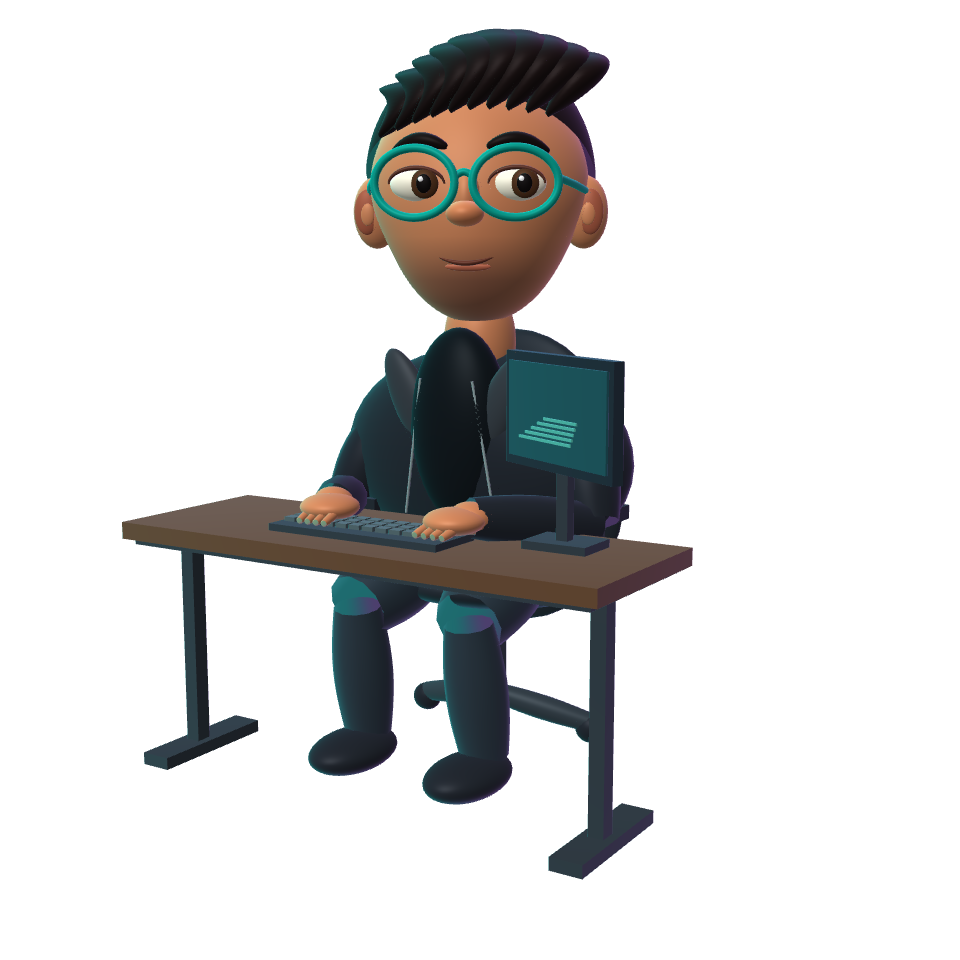
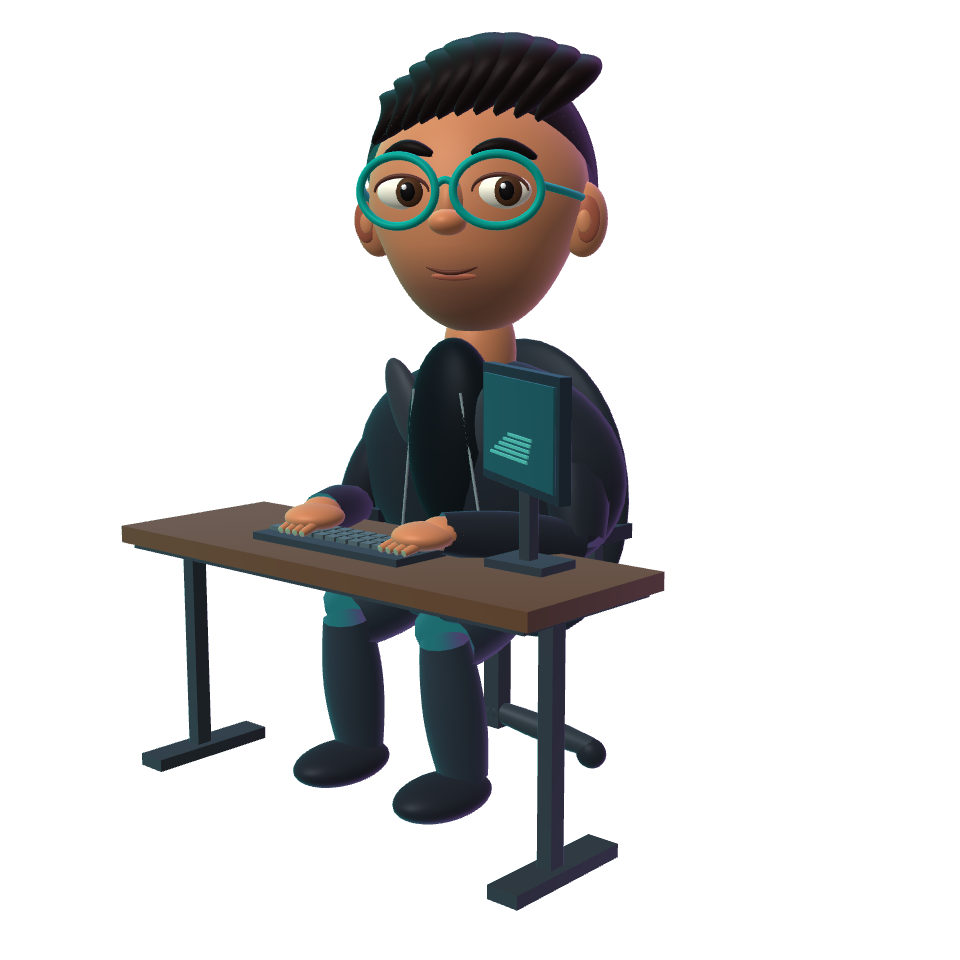
Follow the recorded scroll sequence from close-up to desk, campaign process and horizontal work reel

Changed region(s): [[0.125, 0.0312, 0.7188, 0.9688], [0.4375, 0.0312, 0.5, 0.0625], [0.4062, 0.0625, 0.4375, 0.0938]]

diff --git a/studio/index.html b/studio/index.html
@@ -1,17 +1,17 @@
 <!doctype html>
-<html lang="en"><head><meta charset="utf-8"><meta name="viewport" content="width=device-width, initial-scale=1"><meta name="theme-color" content="#0b1323"><title>Mohammed Aamer Sohel - AI Films & Social Strategy</title><meta name="description" content="AI campaign films, virtual model editorials and social media strategy for brands. Explore concepts and work with Mohammed Aamer Sohel."><meta property="og:title" content="Aamer Sohel - AI Films & Social Strategy"><meta property="og:description" content="Explore AI fashion editorials, product films and social campaign concepts."><link rel="icon" href="assets/as-icon.svg"><link rel="stylesheet" href="style.css?v=7"></head>
-<body><header><div class="shell nav"><a class="brand" href="#top" aria-label="Aamer Sohel home"><img src="assets/aamer-sohel.svg" alt="Aamer Sohel"></a><nav aria-label="Main navigation"><a href="#work">Work</a><a href="#services">Services</a><a href="#about">About</a></nav><a class="navcta" href="#contact">Get in touch</a></div></header>
-<main id="top"><div class="opening"><span class="scene-anchor" id="about"></span><span class="scene-anchor" id="work"></span><span class="scene-anchor" id="cobalt"></span><span class="scene-anchor" id="citrus"></span><section class="stage" aria-labelledby="stage-title">
+<html lang="en"><head><meta charset="utf-8"><meta name="viewport" content="width=device-width, initial-scale=1"><meta name="theme-color" content="#0b1323"><title>Mohammed Aamer Sohel - AI Films & Social Strategy</title><meta name="description" content="AI campaign films, virtual model editorials and social media strategy for brands. Explore concepts and work with Mohammed Aamer Sohel."><meta property="og:title" content="Aamer Sohel - AI Films & Social Strategy"><meta property="og:description" content="Explore AI fashion editorials, product films and social campaign concepts."><link rel="icon" href="assets/as-icon.svg"><link rel="stylesheet" href="style.css?v=8"></head>
+<body><div class="intro-slate" aria-hidden="true"><img src="assets/aamer-sohel.svg" alt=""></div><header><div class="shell nav"><a class="brand" href="#top" aria-label="Aamer Sohel home"><img src="assets/aamer-sohel.svg" alt="Aamer Sohel"></a><nav aria-label="Main navigation"><a href="#work">Work</a><a href="#services">Services</a><a href="#about">About</a></nav><a class="navcta" href="#contact">Get in touch</a></div></header>
+<main id="top"><div class="opening"><span class="scene-anchor" id="about"></span><span class="scene-anchor" id="services"></span><section class="stage" aria-labelledby="stage-title">
   <div class="stage-light" aria-hidden="true"></div>
   <div class="character"><img src="assets/pose-center.png" alt="Aamer at his editing desk wearing teal glasses" fetchpriority="high"><canvas aria-hidden="true"></canvas></div>
   <div class="stage-copy shell">
     <div class="stage-name"><span class="overline">Hello, I'm</span><h1 id="stage-title">Aamer<br>Sohel</h1></div>
     <div class="stage-role"><span class="overline">What I do</span><div class="role-window" aria-hidden="true"><span id="role-text">AI filmmaker</span></div><span class="sr-only">AI filmmaker, virtual model director and social strategist.</span></div>
   </div>
-  <section class="scene-about scene-panel" aria-labelledby="about-title" inert><div class="kicker">ABOUT ME</div><h2 id="about-title">Mohammed<br><em>Aamer Sohel</em></h2><p>I work where filmmaking meets social strategy. For a product launch, I start with what a viewer should notice in the first frame. That choice shapes the model, the light, the edit and the cutdowns a brand can test across its channels.</p><a class="inline" href="https://www.linkedin.com/in/mohammedaamersohel/" target="_blank" rel="noopener">View my LinkedIn profile</a></section><section class="scene-work scene-panel" aria-labelledby="work-title" inert><div class="kicker">CAMPAIGN CONCEPTS</div><h2 id="work-title">Selected <em>work</em></h2><div class="screening"><article><button class="thumb" data-film="ember" aria-label="Play Ember fragrance film"><img src="assets/ember.jpg" alt="Amber fragrance bottle lit against dark stone"><span class="pill">PLAY FILM</span></button><div class="meta">FRAGRANCE / PRODUCT FILM</div><h3>Ember</h3><p>A slow reveal built around amber light, glass edges and the heft of the bottle.</p></article><article><button class="thumb" data-film="cobalt" aria-label="Play Cobalt fashion film"><img src="assets/cobalt.jpg" alt="Virtual fashion model in sculptural chrome eyewear"><span class="pill">PLAY FILM</span></button><div class="meta">EYEWEAR / VIRTUAL MODEL</div><h3>Cobalt</h3><p>A chrome frame, an electric blue set and one virtual model give the collection a distinct face.</p></article><article><button class="thumb" data-film="citrus" aria-label="View Citrus campaign still"><img src="assets/citrus.jpg" alt="Tangerine beverage can with fresh blood orange slices"><span class="pill">VIEW STILL</span></button><div class="meta">BEVERAGE / CAMPAIGN STILL</div><h3>Citrus</h3><p>Cut fruit and a saturated orange palette put flavour at the centre of a launch post.</p></article></div><nav class="film-links" aria-label="Choose a campaign"><a href="#work">Ember</a><a href="#cobalt">Cobalt</a><a href="#citrus">Citrus</a></nav></section><div class="stage-foot shell"><a class="stage-work" href="#about">About me <span aria-hidden="true">↓</span></a></div>
+  <section class="scene-about scene-panel" aria-labelledby="about-title" inert><div class="kicker">ABOUT ME</div><h2 id="about-title">Mohammed<br><em>Aamer Sohel</em></h2><p>I work where filmmaking meets social strategy. For a product launch, I start with what a viewer should notice in the first frame. That choice shapes the model, the light, the edit and the cutdowns a brand can test across its channels.</p><a class="inline" href="https://www.linkedin.com/in/mohammedaamersohel/" target="_blank" rel="noopener">View my LinkedIn profile</a></section><section class="scene-services scene-panel" inert aria-labelledby="service-title"><div class="kicker">SERVICES</div><h2 id="service-title">What I <em>do</em></h2><div class="offering-list"><div><h3>AI video production</h3><p>Concept, storyboard and a finished short film, with vertical edits and opening hooks for social.</p></div><div><h3>Virtual model campaigns</h3><p>AI model direction, styling and campaign imagery for fashion, beauty and lifestyle brands.</p></div><div><h3>Social growth strategy</h3><p>Audience positioning, content pillars and a posting plan, with creative tests guided by watch time, saves and enquiries.</p></div></div></section><div class="stage-foot shell"><a class="stage-work" href="#about">About me <span aria-hidden="true">↓</span></a></div>
 </section></div>
-<section class="services" id="services"><div class="shell services-grid"><div><div class="kicker"><i></i> SERVICES</div><h2>Creative <em>services</em></h2></div><div class="rows"><div><h3>AI video production</h3><p>Concept, storyboard and a finished short film, with vertical edits and opening hooks for social.</p></div><div><h3>Virtual model campaigns</h3><p>AI model direction, styling and campaign imagery for fashion, beauty and lifestyle brands.</p></div><div><h3>Social growth strategy</h3><p>Audience positioning, content pillars and a posting plan, with creative tests guided by watch time, saves and enquiries.</p></div></div></div></section>
+<section class="process shell" id="process"><h2>How I build a <em>campaign</em></h2><ol><li><strong>Find the hook</strong><p>Define the audience and choose what the viewer should notice in the opening frame.</p></li><li><strong>Direct the shoot</strong><p>Shape the storyboard, lighting and virtual model around the product.</p></li><li><strong>Cut for social</strong><p>Edit the film into platform-ready cuts and test which opening earns attention.</p></li></ol></section><section class="work-reel" id="work"><div class="pinned-work"><div class="shell"><div class="kicker">CAMPAIGN CONCEPTS</div><h2>My <em>work</em></h2></div><div class="track-window"><div class="project-track"><article><button class="thumb" data-film="ember" aria-label="Play Ember fragrance film"><img src="assets/ember.jpg" alt="Amber fragrance bottle lit against dark stone"><span class="pill">PLAY FILM</span></button><div class="meta">FRAGRANCE / PRODUCT FILM</div><h3>Ember</h3><p>A slow reveal built around amber light, glass edges and the heft of the bottle.</p></article><article><button class="thumb" data-film="cobalt" aria-label="Play Cobalt fashion film"><img src="assets/cobalt.jpg" alt="Virtual fashion model in sculptural chrome eyewear"><span class="pill">PLAY FILM</span></button><div class="meta">EYEWEAR / VIRTUAL MODEL</div><h3>Cobalt</h3><p>A chrome frame, an electric blue set and one virtual model give the collection a distinct face.</p></article><article><button class="thumb" data-film="citrus" aria-label="View Citrus campaign still"><img src="assets/citrus.jpg" alt="Tangerine beverage can with fresh blood orange slices"><span class="pill">VIEW STILL</span></button><div class="meta">BEVERAGE / CAMPAIGN STILL</div><h3>Citrus</h3><p>Cut fruit and a saturated orange palette put flavour at the centre of a launch post.</p></article></div></div><nav class="project-nav shell" aria-label="Choose a campaign"><button type="button" data-project="0">Ember</button><button type="button" data-project="1">Cobalt</button><button type="button" data-project="2">Citrus</button></nav></div></section><section class="formats" aria-labelledby="format-title"><h2 id="format-title">Campaign <em>formats</em></h2><div class="orbs"><span>Film</span><span>Reels</span><span>Stills</span><span>Editorial</span><span>Social</span><span>AI models</span></div></section>
 
 <section class="contact" id="contact"><div class="shell"><div class="kicker"><i></i> PROJECT ENQUIRIES</div><h2>What are you<br><em>launching?</em></h2><p>Send me your product, launch date and the audience you want to reach.</p><div class="contacts"><a class="darkbutton" href="https://wa.me/919492718006?text=Hi%20Aamer%2C%20I%27d%20like%20to%20discuss%20a%20brand%20project." target="_blank" rel="noopener">Start a project on WhatsApp</a><a class="call" href="mailto:itsaamersohel@gmail.com">itsaamersohel@gmail.com</a><a class="call" href="tel:+919492718006">+91 94927 18006</a></div></div></section>
 </main><footer class="shell"><span>Mohammed Aamer Sohel</span><a href="https://www.linkedin.com/in/mohammedaamersohel/" target="_blank" rel="noopener">LinkedIn</a></footer>
-<dialog id="viewer" aria-labelledby="dialog-title"><div class="dialogbar"><span id="dialog-title"></span><button id="close" aria-label="Close preview">&times;</button></div><div id="media"></div></dialog><script src="character.js?v=7"></script><script src="app.js?v=7"></script></body></html>
+<dialog id="viewer" aria-labelledby="dialog-title"><div class="dialogbar"><span id="dialog-title"></span><button id="close" aria-label="Close preview">&times;</button></div><div id="media"></div></dialog><script src="character.js?v=8"></script><script src="app.js?v=8"></script></body></html>

diff --git a/studio/app.js b/studio/app.js
@@ -51,32 +51,55 @@ document.addEventListener('visibilitychange', updateMotion);
 new IntersectionObserver(([entry]) => { visible = entry.isIntersecting; updateMotion(); }).observe(stage);
 updateMotion();
 const opening=document.querySelector('.opening');
-const intro=stage.querySelector('.stage-copy'), about=stage.querySelector('.scene-about'), work=stage.querySelector('.scene-work');
-const cards=Array.from(work.querySelectorAll('article')), choices=Array.from(work.querySelectorAll('.film-links a'));
+const intro=stage.querySelector('.stage-copy'), about=stage.querySelector('.scene-about'), services=stage.querySelector('.scene-services');
 const cue=stage.querySelector('.stage-work');
 const clamp01=x=>Math.max(0,Math.min(1,x));
 const ramp=(p,a,b)=>{const t=clamp01((p-a)/(b-a));return t*t*(3-2*t);};
-function frameOpening(){
-  const distance=opening.offsetHeight-stage.offsetHeight;
-  const p=distance>0?clamp01(-opening.getBoundingClientRect().top/distance):0;
-  const turn=ramp(p,.035,.205);
-  const aboutFade=turn*(1-ramp(p,.345,.445));
-  const workFade=ramp(p,.37,.48);
-  stage.dataset.progress=String(turn);
+const reel=document.querySelector('.work-reel'), pinned=reel.querySelector('.pinned-work'), track=reel.querySelector('.project-track');
+const controls=Array.from(reel.querySelectorAll('[data-project]'));
+function scrollDistance(section,child){return Math.max(1,section.offsetHeight-child.offsetHeight);}
+function updatePage(){
+  const p=clamp01(-opening.getBoundingClientRect().top/scrollDistance(opening,stage));
+  const turn=ramp(p,.04,.29),wide=ramp(p,.46,.70);
+  const aboutFade=turn*(1-ramp(p,.46,.60));
+  stage.dataset.progress=String(turn);stage.dataset.wide=String(wide);
   stage.dispatchEvent(new Event('scenechange'));
-  stage.style.setProperty('--turn',String(turn));
-  stage.style.setProperty('--intro-opacity',String(1-ramp(p,.035,.15)));
-  stage.style.setProperty('--about-opacity',String(aboutFade));
-  stage.style.setProperty('--work-opacity',String(workFade));
-  intro.inert=p>.13;about.inert=aboutFade<.5;work.inert=workFade<.5;
-  const index=p<.64?0:p<.82?1:2;
-  cards.forEach((card,i)=>{card.hidden=i!==index;});
-  choices.forEach((link,i)=>{if(i===index)link.setAttribute('aria-current','true');else link.removeAttribute('aria-current');});
-  cue.href=p<.15?'#about':p<.40?'#work':p<.64?'#cobalt':p<.82?'#citrus':'#services';
-  cue.textContent=p<.15?'Scroll to About me':p<.40?'Explore my work':p<.82?'Next campaign':'Creative services';
+  stage.style.setProperty('--turn',String(turn));stage.style.setProperty('--wide',String(wide));
+  stage.style.setProperty('--intro-opacity',String(1-ramp(p,.04,.19)));
+  stage.style.setProperty('--about-opacity',String(aboutFade));stage.style.setProperty('--services-opacity',String(wide));
+  intro.inert=p>.18;about.inert=aboutFade<.5;services.inert=wide<.5;
+  cue.href=p<.19?'#about':p<.62?'#services':'#process';
+  cue.textContent=p<.19?'Scroll to About me':p<.62?'What I do':'My process';
+  const w=clamp01(-reel.getBoundingClientRect().top/scrollDistance(reel,pinned));
+  const cards=track.children;
+  const travel=cards[cards.length-1].offsetLeft-cards[0].offsetLeft;
+  track.style.transform='translate3d('+(-travel*w)+'px,0,0)';
+  controls.forEach((el,i)=>el.setAttribute('aria-pressed',String(i===Math.round(w*(cards.length-1)))));
 }
+controls.forEach((el,i)=>el.addEventListener('click',()=>{
+  const top=window.scrollY+reel.getBoundingClientRect().top+scrollDistance(reel,pinned)*i/(controls.length-1);
+  window.scrollTo({top,behavior:matchMedia('(prefers-reduced-motion:reduce)').matches?'instant':'smooth'});
+}));
 let pending=false;
-function scheduleOpening(){if(pending)return;pending=true;requestAnimationFrame(()=>{pending=false;frameOpening();});}
-window.addEventListener('scroll',scheduleOpening,{passive:true});
-window.addEventListener('resize',scheduleOpening);
-frameOpening();
+function schedulePage(){if(pending)return;pending=true;requestAnimationFrame(()=>{pending=false;updatePage();});}
+window.addEventListener('scroll',schedulePage,{passive:true});window.addEventListener('resize',schedulePage);
+updatePage();const field=document.querySelector('.orbs');
+const balls=Array.from(field.children,(el,i)=>({el,x:.09+(i%3)*.36,y:.1+Math.floor(i/3)*.53,vx:Math.cos(i+1)*32,vy:Math.sin(i+2)*24}));
+let ballFrame=0,oldTime=0;
+function drawBalls(time){
+  const w=field.clientWidth,h=field.clientHeight,d=balls[0].el.offsetWidth;
+  const dt=Math.min(.04,(time-oldTime)/1000);oldTime=time;
+  for(const b of balls){
+    b.x+=b.vx*dt/w;b.y+=b.vy*dt/h;
+    if(b.x<=0||b.x>1-d/w){b.vx*=-1;b.x=Math.max(0,Math.min(1-d/w,b.x));}
+    if(b.y<=0||b.y>1-d/h){b.vy*=-1;b.y=Math.max(0,Math.min(1-d/h,b.y));}
+    b.el.style.transform='translate('+b.x*w+'px,'+b.y*h+'px)';
+  }
+  if(!matchMedia('(prefers-reduced-motion:reduce)').matches)ballFrame=requestAnimationFrame(drawBalls);
+}
+field.addEventListener('pointermove',e=>{
+  const rect=field.getBoundingClientRect();
+  for(const b of balls){const dx=b.x*rect.width+b.el.offsetWidth/2-(e.clientX-rect.left),dy=b.y*rect.height+b.el.offsetWidth/2-(e.clientY-rect.top);
+    const distance=Math.hypot(dx,dy);if(distance>0&&distance<100){b.vx=55*dx/distance;b.vy=55*dy/distance;}}
+});
+new IntersectionObserver(([entry])=>{cancelAnimationFrame(ballFrame);if(entry.isIntersecting){oldTime=performance.now();drawBalls(oldTime);}}).observe(field);

diff --git a/studio/style.css b/studio/style.css
@@ -72,3 +72,25 @@
 .scene-work h3{font-size:22px}.film-links{margin-top:6px}.scene-work .screening p{font-size:14px;line-height:1.4}
 }
 @media(max-height:530px) and (min-width:701px){.scene-work .screening p{display:none}.scene-panel h2{font-size:30px;margin:4px 0}.scene-work .meta{margin-top:4px}.stage-foot{padding-block:4px}}
+body:has(.work-reel){background:#080e16;color:#eff5f6}
+.intro-slate{position:fixed;inset:0;display:grid;place-items:center;z-index:15;background:#101c2b;pointer-events:none;animation:slate-out .8s ease-in-out forwards}
+.intro-slate img{width:min(55%,430px)}
+@keyframes slate-out{0%,25%{clip-path:inset(0)}100%{clip-path:inset(0 0 100% 0);visibility:hidden}}
+.opening{height:395svh}.scene-anchor#about{top:calc(35% - 35svh)}.scene-anchor#services{top:calc(78% - 78svh)}
+.scene-services{opacity:var(--services-opacity,0)}.offering-list>div{padding:12px 0;border-top:1px solid #385058}
+.offering-list h3{font-size:clamp(17px,1.55vw,25px);font-weight:550;margin:0 0 4px}.offering-list p{font-size:clamp(14px,1.05vw,17px)}
+.process{padding:clamp(70px,11vw,160px) 0;display:grid;grid-template-columns:1fr 1fr;gap:8%}
+.process h2,.work-reel h2,.formats h2{font-size:clamp(44px,5.8vw,86px);font-weight:500;line-height:1;letter-spacing:-.07em;margin:0}
+.process ol{margin:0;padding:0 0 0 22px;border-left:1px solid #6bc7b6;list-style:none}
+.process li{position:relative;padding:10px 0 25px}.process li:before{content:"";position:absolute;left:-27px;top:20px;width:8px;height:8px;border-radius:50%;background:#91f1cf}.process strong{font-size:22px}.process p,.project-track p{color:#bbcad1}
+.work-reel{height:260svh;position:relative;background:linear-gradient(120deg,#101d2a,#070e18 68%)}
+.pinned-work{position:sticky;top:0;height:100svh;overflow:hidden;display:flex;flex-direction:column;justify-content:center;gap:clamp(12px,3vh,32px)}
+.work-reel h2{margin:6px 0 0}.project-track{display:flex;position:relative;gap:5vw;padding:0 5vw;will-change:transform}
+.project-track article{flex:0 0 min(65vw,850px);width:min(65vw,850px)}
+.project-track .thumb img{width:100%;aspect-ratio:2.45;max-height:38svh;object-fit:cover}
+.project-track h3{font-size:clamp(24px,3vw,42px);line-height:1.15;margin:4px 0}.project-track .meta{color:#9cf5d7;margin-top:8px}.project-track p{max-width:580px}
+.project-nav{display:flex;gap:16px}.project-nav button{background:none;color:#bfccd6;border:0;border-bottom:2px solid transparent;padding:5px 0;font:inherit}.project-nav [aria-pressed=true]{color:#9cf5d7;border-color:currentColor}
+.formats{height:min(75svh,650px);min-height:300px;position:relative;overflow:hidden;display:grid;place-items:center;background:#09141e}.formats h2{position:relative;z-index:1;pointer-events:none;text-shadow:0 3px 18px #04111b}
+.orbs{position:absolute;inset:0}.orbs span{position:absolute;top:0;left:0;width:clamp(70px,9vw,130px);aspect-ratio:1;border-radius:50%;display:grid;place-items:center;font-weight:650;color:#173345;background:radial-gradient(circle at 32% 24%,#fff,#b8fff1 25%,#8dc7ce 55%,#367182 78%,#173344);box-shadow:inset -3px -5px 10px #1234;will-change:transform}
+@media(max-width:700px){.process{display:block}.process ol{margin-top:28px}.scene-services{bottom:9%}.scene-services h2{margin-bottom:5px}.offering-list>div{padding:6px 0}.offering-list p{line-height:1.34;font-size:14px}.project-track article{flex-basis:82vw;width:82vw}.stage .character{inset:0 0 auto;height:61%;translate:calc(-16vw*var(--turn,0)) calc(-9svh*var(--turn,0))}.project-track p{font-size:15px}.project-nav{gap:20px}}
+@media(prefers-reduced-motion:reduce){.intro-slate{display:none}}

diff --git a/studio/character.js b/studio/character.js
@@ -12,7 +12,7 @@ function createFaceAnimation(stage) {
   const views=['left','center','right'];
   let fallbackView='';
   function fallback() {
-    const view=Number(stage.dataset.progress)>.6 ? "desk" : views[targetX < -.28 ? 0 : targetX > .28 ? 2 : 1];
+    const view=Number(stage.dataset.wide)>.5 ? "desk" : views[targetX < -.28 ? 0 : targetX > .28 ? 2 : 1];
     if(view!==fallbackView) {fallbackView=view;poster.src='assets/pose-'+view+'.png';}
   }
   stage.addEventListener('scenechange',()=>{if(!renderer)fallback();});
@@ -42,7 +42,7 @@ function createFaceAnimation(stage) {
     const blink=blinkTime<0?0:blinkTime<.09?blinkTime/.09:Math.max(0,1-(blinkTime-.09)/.14);
     if(blinkTime>.24)nextBlink=age+2.8+Math.random()*1.8;
     const intro=Math.max(0,1-age/1.2)**2;
-    renderer(yaw-intro*.22,pitch+intro*.13,gazeX,gazeY,brow,blink,age,progress);
+    renderer(yaw-intro*.22,pitch+intro*.13,gazeX,gazeY,brow,blink,age,Number(stage.dataset.wide || 0));
     holder.classList.add('ready');
   }
   function setActive(value) {
@@ -78,14 +78,14 @@ function buildModel(gl) {
         p.y-=.47;
       }
       if(joint>4.5)p.y+=.016*sin(head.w*7.+joint*2.);
-      p.xz=spin(.14+.42*head.z)*p.xz;
+      p.xz=spin(.10+.62*head.z)*p.xz;
       n.xz=spin(.14+.42*head.z)*n.xz;
-      p.y+=1.12+.32*head.z;
+      p.y+=mix(-.24,1.35,head.z);
       p.yz=spin(.10+.06*head.z)*p.yz;
       n.yz=spin(.10+.06*head.z)*n.yz;
       world=p;
       float camera=9.5-p.z;
-      float zoom=1.72-.14*head.z;
+      float zoom=mix(4.55,1.62,head.z);
       gl_Position=vec4(p.x*zoom*viewport.y/viewport.x,(p.y+.07)*zoom,-p.z*.6,camera*.54);
     }`;
   const fragment=`
